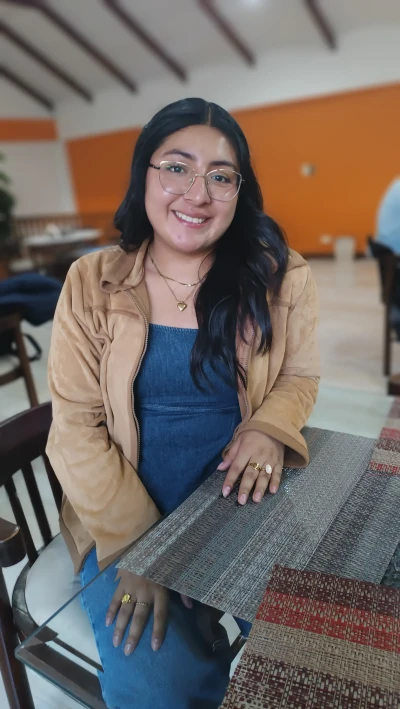
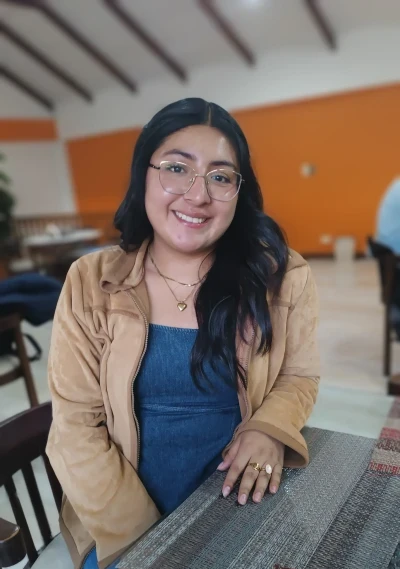
Add: Organizers faltantes

diff --git a/src/components/events/iwd-26/organizers/OrganizerCard.tsx b/src/components/events/iwd-26/organizers/OrganizerCard.tsx
@@ -15,7 +15,7 @@ export const OrganizerCard = ({ img, full_name, areas }: Props) => {
         <img
           src={img}
           alt={full_name}
-          className="w-full object-cover h-[300px] md:h-[400px] object-center rounded-t-lg"
+          className="w-full object-cover h-[300px] md:h-[300px] object-center rounded-t-lg"
           width="400"
           height="400"
           loading="lazy"
